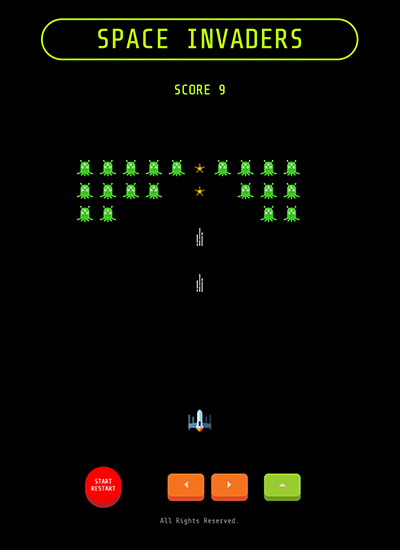
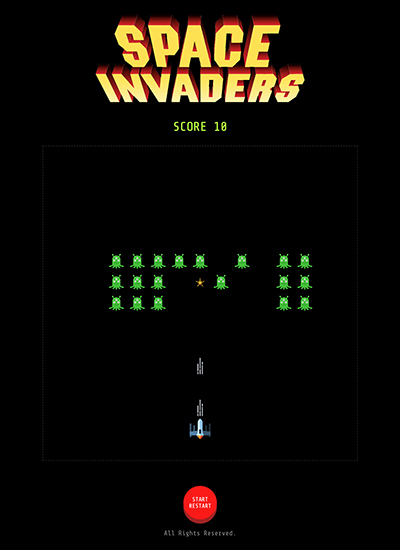
Change text space invaders in projects

diff --git a/src/data/Data.js b/src/data/Data.js
@@ -269,7 +269,7 @@ export const projects = [
       "That's why I decided to build this project. This tutorial again from Ania Kubow (mentioned on the Pac Man project) uses a great deal of Vanilla Javascript logic. Therefore, it was a good place to restart.",
     backText_titleThree: "what",
     backText_textThree:
-      "As I did with Pac Man, I challenged myself to create new buttons and redesign the entire video game.",
+      "As I did with Pac Man, I challenged myself to create a restart button and redesign the entire video game.",
     backText_titleFour: "",
     backText_textFour: "",
     backText_linkName: "Compare with original: Ania Kubów's Tutorial",
